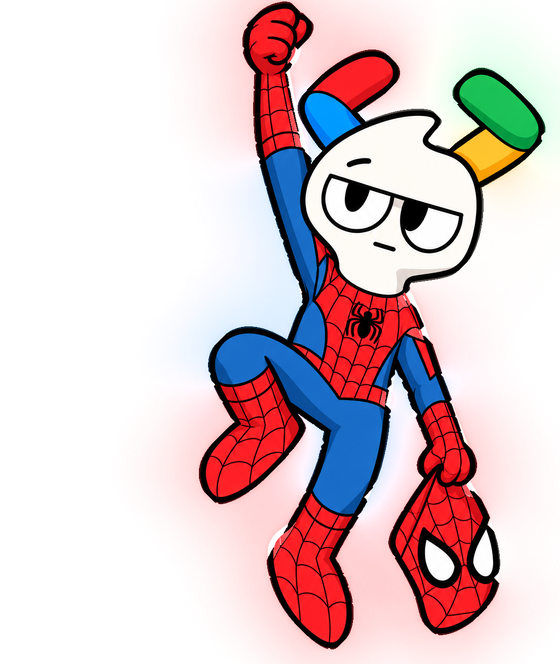
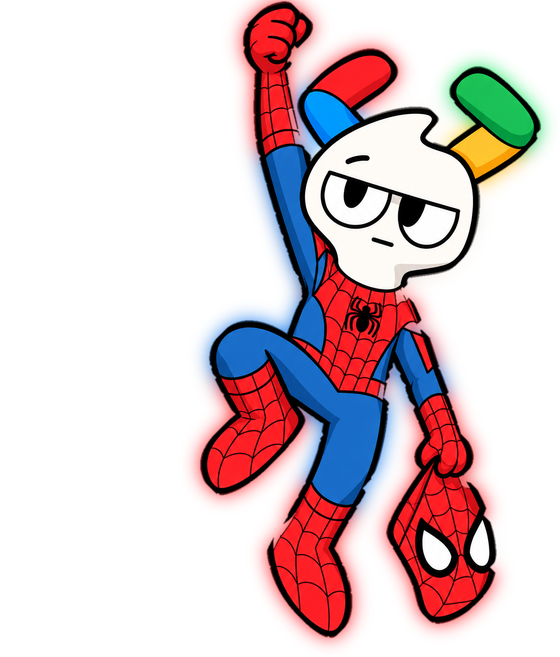
Smoother glow around spider Devu

Changed region(s): [[0.3036, 0.0, 0.9714, 1.0]]

diff --git a/src/lib/store.js b/src/lib/store.js
@@ -22,9 +22,17 @@ function mixedQuiz() {
     { type: 'tf', text: 'Gemini is a family of AI models made by Google.', answers: ['True', 'False', '', ''], correct: 0, time: 15, points: 1, img: null },
   ] };
 }
+/* a short 2-question quiz for quick tests, PIN 123 456 */
+function quickQuiz() {
+  return { id: uid(), title: 'Quick Test', topic: 'Other', desc: 'Two quick questions to try the game.', status: 'ready', pin: '123456', lastHosted: null, questions: [
+    q('Which company created the Flutter framework?', ['Google', 'Meta', 'Microsoft', 'Apple'], 0, 15),
+    { type: 'tf', text: 'GDG stands for Google Developer Groups.', answers: ['True', 'False', '', ''], correct: 0, time: 10, points: 1, img: null },
+  ] };
+}
 function seed() {
   return {
     quizzes: [
+      quickQuiz(),
       mixedQuiz(),
       { id: uid(), title: 'Flutter Basics', topic: 'Mobile', desc: 'Widgets, state and hot reload.', status: 'ready', pin: '482913', lastHosted: null, questions: [
         q('Which company created the Flutter framework?', ['Google', 'Meta', 'Microsoft', 'Apple'], 0),
@@ -58,6 +66,7 @@ function seed() {
     games: [],
     topics: [],
     mixedAdded: true,
+    quickAdded: true,
   };
 }
 
@@ -66,6 +75,7 @@ try { DB = JSON.parse(lsGet(KEY)) || seed(); } catch { DB = seed(); }
 if (!DB.quizzes) DB = seed();
 if (!DB.topics) DB.topics = [];
 if (!DB.mixedAdded) { DB.quizzes.unshift(mixedQuiz()); DB.mixedAdded = true; }
+if (!DB.quickAdded) { if (!DB.quizzes.some((z) => z.pin === '123456')) DB.quizzes.unshift(quickQuiz()); DB.quickAdded = true; }
 DB.quizzes.forEach((z) => z.questions.forEach((x) => { if (!x.type) x.type = 'mc'; }));
 DB.topics.forEach((t) => { if (!TOPICS[t.name]) TOPICS[t.name] = { c: t.c, icon: 'star' }; });
 
